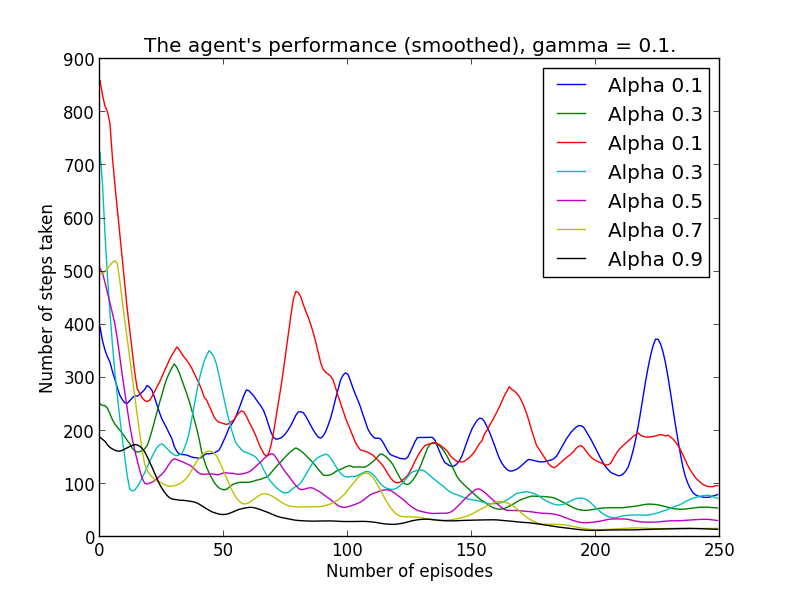
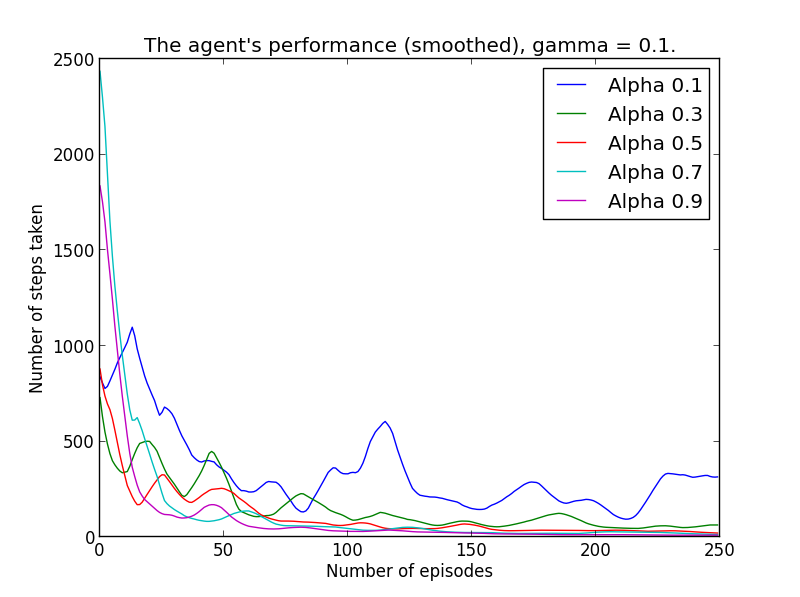
Added softmax action selection

diff --git a/source/Predator.py b/source/Predator.py
@@ -12,6 +12,7 @@
 import random
 from itertools import izip
 import time
+from math import exp
 
 argmax = lambda d: max( izip( d.itervalues(), d.iterkeys() ) )[1]
 
@@ -219,12 +220,23 @@ class Predator():
             if cumulative_prob >= random_number:                
                 return a
 
-    def qLearning(self, alpha=0.1, gamma=0.1, epsilon=0.1, episodes=1000):
+    def qLearning(self, episodes=1000, alpha=0.1, gamma=0.1, epsilon=0, tau=0):
         '''
+        qLearning(episodes, alpha, gamma, epsilon, tau) -> Q, return_list
+        
         Implementation of Q-learning given the learning rate alpha, discount
         factor gamma, epsilon for epsilon-greedy policy, and the number of 
-        episodes.
+        episodes. Returns the values of Q as a 2-deep dict (Q[s][a]) and a list
+        containing performance measures of the agent (number of steps)
         '''
+
+        if epsilon > 0:
+            print 'Using epsilon-greedy action selection.'
+        elif tau > 0:
+            print 'Using softmax action selection.'
+        else:
+            print "Fill in argument epsilon=.. or tau=.."
+
         # Initialize Q            
         Q = dict()
         for s in self.Environment.S | self.Environment.terminal_states:
@@ -241,7 +253,7 @@ class Predator():
         # For a number of episodes
         for n in range(1,episodes+1):
             
-            if n % 100 == 0:
+            if n % 10 == 0:
                 print 'Episode {0}, time taken: {1}.'.format(n, time.time()-now)
                 now = time.time()
                 
@@ -254,9 +266,13 @@ class Predator():
             # Run through one episode
             while not prey_caught:      
                 step_number += 1
-            
-                # Choose a from s using policy derived from Q (epsilon greedy)
-                a = self.deriveAction(Q, s, epsilon)
+               
+                # If epsilon-greedy action selection is used
+                if epsilon > 0:
+                    # Choose a from s using policy derived from Q (epsilon greedy)
+                    a = self.deriveAction(Q, s, epsilon)
+                elif tau > 0:
+                    a = self.deriveActionSoftmax(Q, s, tau)
                 
                 # Take action a, observe r, s_prime
                 r, s_prime, prey_caught = self.takeAction(s, a)                
@@ -277,14 +293,14 @@ class Predator():
                 # is implemented for the general case anyway                
                 #total_return += gamma**step_number * r
                 
-                # Finds both the average number of steps and return for X
-                # simulations using a given Q.
-                #average_steps = self.simulate_X_times_using_Q(10, Q, epsilon)
-            
+            # Finds both the average number of steps and return for X
+            # simulations using a given Q.
+            #average_steps = self.simulate_X_times_using_Q(100, Q, epsilon)
+        
             #return_list.append(average_steps) 
 
         # Return the found Qvalues and simulation data
-        return Q #, return_list
+        return Q, return_list
             
     def simulate_X_times_using_Q( self, X, Q, epsilon):
         '''
@@ -321,7 +337,12 @@ class Predator():
         return average_number_of_steps
      
     def deriveAction(self, Q, s, epsilon):
-        # Find the action that maximizes Q[(s, a)]
+        '''
+        Find an action using Q, the current state, and epsilon, in an 
+        epsilon-greedy fashion. 
+        '''
+        
+        # Find the action that maximizes Q[(s, a)]                
         max_Q = -1
         best_a = None
         prob_actions = dict()        
@@ -332,10 +353,10 @@ class Predator():
                 max_Q = Q[s][possible_a]
                 best_a = possible_a
             # Set probabilities of all actions uniformly
-            prob_actions[(s, possible_a)] = uniform_epsilon
+            prob_actions[possible_a] = uniform_epsilon
         
         # Give the best action for this state a probability of 1
-        prob_actions[(s, best_a)] += 1 - epsilon
+        prob_actions[best_a] += 1 - epsilon
                     
         # For every action, check if the cumulative probability exceeds a 
         # random number. 
@@ -343,7 +364,33 @@ class Predator():
         cumulative_prob = 0.0
         
         for a in self.actions:
-            cumulative_prob += prob_actions[(s,a)]
+            cumulative_prob += prob_actions[a]
+            if cumulative_prob >= random_number:                
+                return a
+    
+    def deriveActionSoftmax(self, Q, s, tau):
+        '''
+        Find an action using Q, the current state s, and the temperature, 
+        a measure similar to epsilon.
+        '''        
+        prob_actions = dict()
+        
+        # Determine the probability of each action
+        denominator = 0
+        for b in self.actions:
+            denominator += exp(Q[s][b] / float(tau))
+
+        for a in self.actions:
+            numerator = exp(Q[s][a] / float(tau))
+            prob_actions[a] = numerator / denominator
+            
+        # For every action, check if the cumulative probability exceeds a 
+        # random number. 
+        random_number = random.random()
+        cumulative_prob = 0.0
+        
+        for a in self.actions:
+            cumulative_prob += prob_actions[a]
             if cumulative_prob >= random_number:                
                 return a
 
@@ -351,10 +398,11 @@ class Predator():
         '''
         Given a state and the best action, this function sets the predators 
         policy so that in state s, the probability of taking action best_a is
-        1.0 and probabilities of taking any other actions are (of course) 0. 
+        1.0 - epsilon + epsilon / N and probabilities of taking any other 
+        actions are epsilon/N. 
         '''
         
-        uniform_epsilon = epsilon / (len(self.actions)-1)
+        uniform_epsilon = epsilon / (len(self.actions))
 
         # Set probabilities of all actions except the best action uniformly
         for a in self.actions:

diff --git a/source/VisualizeData.py b/source/VisualizeData.py
@@ -21,14 +21,13 @@ class VisualizeData():
         self.Environment = EnvironmentReduced.EnvironmentReduced()
         self.Predator = self.Environment.Predator
         
-    def plotPerformance(self, episodes=500, save_data=True):
+    def plotPerformance(self, episodes=500):
         '''
         Executes a given function for different discount alpha, gamma, epsilon
         '''
-        some_range = np.arange(0.9, 0.91, 0.2)
+        some_range = np.arange(0.1, 0.91, 0.2)
         x = np.arange(0, episodes)
         epsilon = 0.1
-        
         
         for gamma in some_range:
             i = 0
@@ -45,23 +44,13 @@ class VisualizeData():
                 
                 return_list = self.smoothListTriangle(return_list, degree=10)
                                         
-                if save_data:
-                    with open('performance.csv', 'w') as f:
-                        writer = csv.writer(f)
-                        writer.writerow(return_list)        
-                else:
-                    plt.plot(x, np.array(return_list), label='Alpha {0}'.format(alpha))
-            if not save_data:
-                plt.legend()  
-                plt.xlabel('Number of episodes')
-                plt.ylabel('Number of steps taken')
-                plt.title('The agent\'s performance (smoothed), gamma = {0}.'.format(gamma))
-                plt.show()
-            else:
-                with open('performance.csv', 'w') as f:
-                    writer = csv.writer(f)
-                    writer.writerow([])
-        
+                plt.plot(x, np.array(return_list), label='Alpha {0}'.format(alpha))
+            
+            plt.legend()  
+            plt.xlabel('Number of episodes')
+            plt.ylabel('Number of steps taken')
+            plt.title('The agent\'s performance (smoothed), gamma = {0}.'.format(gamma))
+            plt.show()
             
     def smoothListLinear(self, input_list, degree=5):
         '''
